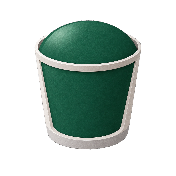
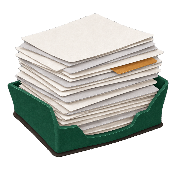
fix: make the overloaded mark say capacity, not refuse
The glass filled past its rim could never have worked: an opaque paper
vessel cannot show a fill level, so the bulge rendered as a domed lid and
the mark read as a waste bin — the wrong association for a scenario about
someone at their limit. A tray overwhelmed by a stack rising past its
walls puts the excess in positive shapes, which is what this style draws.

At 88pt it separates cleanly from `delegation`, which is the same tray
holding one flat sheet. That leaves three tray-or-stack marks with
`say-no`; they are distinct at size, but the set has no room for a fourth.

ILLUSTRATIONS.md §2 gains the dead subject beside the step-ladder and the
office chairs, and its rule now covers transparency as well as absence.
The `below-bar` row there is updated ahead of its master — STATUS §6 says
so, so the gap is not mistaken for a stale doc.

diff --git a/docs/STATUS.md b/docs/STATUS.md
@@ -429,26 +429,31 @@ an interface with a device implementation and a fake, so replacing the plugin
 with a platform channel touches one file and moves no tests. Voice is P2 and
 `ROADMAP` §1 says not to extend it, so this waits.
 
-**`overloaded` reads as a waste bin at 88pt, and shipped anyway.** The brief
-asked for "a drinking glass filled past its rim, the surface bulging above
-the edge". An opaque paper vessel cannot show a fill level, so the bulge
-rendered as a domed lid on a tub — at the size it is actually drawn it says
-bin, not capacity, which is the wrong signal for a scenario about someone at
-their limit. The brief was the fault, not the generation: it broke
-[`ILLUSTRATIONS.md`](ILLUSTRATIONS.md) §2's own rule by depending on
-transparency, which is not a property this style has.
+**`below-bar` is soft at the size it is drawn.** A squat horizontal object in
+a square frame renders visibly smaller than its neighbours, and the
+off-centre bubble carrying the whole meaning is lost by 88pt. It currently
+reads as a green brick with an amber dot.
 
-`below-bar` is soft for a different reason — a squat horizontal object in a
-square frame renders visibly smaller than its neighbours, and the off-centre
-bubble carrying the whole meaning is lost by 88pt.
+[`ILLUSTRATIONS.md`](ILLUSTRATIONS.md) §2 already carries the replacement
+brief — angled three-quarter to fill the square, with an oversized bubble
+hard against one end — so **the prompt is ahead of the master**. Regenerating
+it is one image plus
+`flutter test tool/generate_illustrations.dart`; until then that row of the
+table describes what the mark should be rather than what it is.
 
-Both were seen at size and shipped deliberately, to keep the twelve-scenario
-library moving. The replacement for `overloaded` wants an object whose
-silhouette carries the overload — an overstuffed folder that cannot close is
-the candidate; `below-bar` wants reframing rather than re-conceiving, angled
-three-quarter from above to fill the square with a larger bubble hard against
-one end. Neither blocks submission, and both are cheap: one master each, then
-`flutter test tool/generate_illustrations.dart`.
+`overloaded` was the same kind of defect and is fixed. Its first brief asked
+for a glass filled past the rim, which an opaque paper vessel cannot show —
+the bulge rendered as a domed lid and the mark read as a waste bin, a bad
+association for a scenario about someone at capacity. Replacing it with a
+tray physically overwhelmed by a stack puts the excess in positive shapes,
+which is what this style can draw. The dead subject is recorded in
+[`ILLUSTRATIONS.md`](ILLUSTRATIONS.md) §2 beside the step-ladder and the
+office chairs, and the rule there now covers transparency as well as absence.
+
+One cost worth knowing: `overloaded`, `delegation` and `say-no` are now three
+tray-or-stack marks. They separate at 88pt — a tall ragged stack, a flat
+slab, and a stack with a folder floating clear of it — but the set has no
+room for a fourth.
 
 **No dark theme.** `lib/app.dart` sets `theme:` only. `AppColors` are const
 values referenced directly across 20 files in `lib/`, so adding one is a

diff --git a/docs/ILLUSTRATIONS.md b/docs/ILLUSTRATIONS.md
@@ -62,9 +62,9 @@ looks them up by scenario id.
 | `resignation.png` | A sealed envelope standing upright, a single door key leaning against it. |
 | `delegation.png` | A shallow out-tray holding one thick sheet, the sheet sitting slightly proud of the tray as though just set down. |
 | `after-hours.png` | A single speech bubble with a crescent moon cut cleanly out of its centre. |
-| `below-bar.png` | A spirit level lying flat, its bubble sitting well off centre. |
+| `below-bar.png` | A spirit level angled diagonally in three-quarter view to fill the square, its oversized bubble pressed hard against one end. |
 | `disagree-commit.png` | A closed ring binder with one thick sheet still protruding from it. |
-| `overloaded.png` | A drinking glass filled past its rim, the surface bulging above the edge. |
+| `overloaded.png` | A shallow office in-tray buckling under a dense stack of thick sheets piled far above its side walls. |
 | `empty-progress.png` | A bar chart with only the first, shortest bar present. |
 | `pro-unlock.png` | An open padlock resting on its side, shackle lifted. |
 | `logo.png` | Two overlapping speech bubbles, the left deep green and the right warm off-white, with a small muted amber bubble showing in the gap between them. |
@@ -80,7 +80,7 @@ subject drawn on a transparent ground, which is why the two look related
 and why this one has no background of its own. It replaced a forest square
 with a Material `forum` glyph in it; the wordmark beside it is still type.
 
-### Two subjects that had to be replaced
+### Three subjects that had to be replaced
 
 Recorded so they are not proposed again.
 
@@ -94,9 +94,17 @@ possible one for drawing something that is not there.
 the angle. A relationship that subtle does not survive generation, let alone
 40pt.
 
-The rule both of them break: **put the meaning in the object, not in a
-spatial relationship between objects.** A torn disc and an empty box each
-say one thing on their own.
+**A drinking glass filled past its rim** was the first attempt at
+`overloaded`. An opaque paper vessel cannot show a fill level, so the liquid
+surface became a green dome that read as a lid. The result looked like a waste
+bin or plant pot — a harmful association for a scenario about someone at
+capacity. The replacement makes the excess visible as positive shapes: a work
+tray physically overwhelmed by a stack rising beyond its walls.
+
+The rule behind all three replacements: **put the meaning in visible parts of
+the object, not in an absence, transparency, or subtle spatial relationship.**
+A torn disc, an empty box and an overloaded tray each say one thing on their
+own.
 
 ---
 
